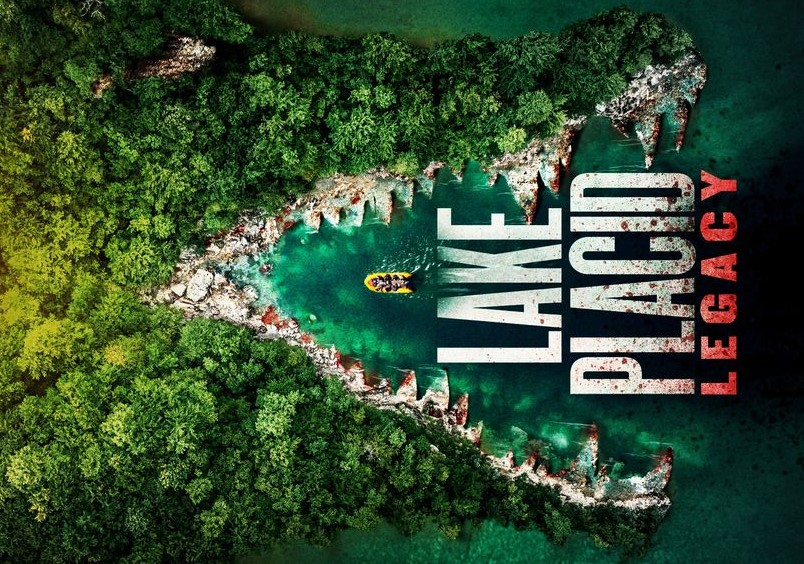
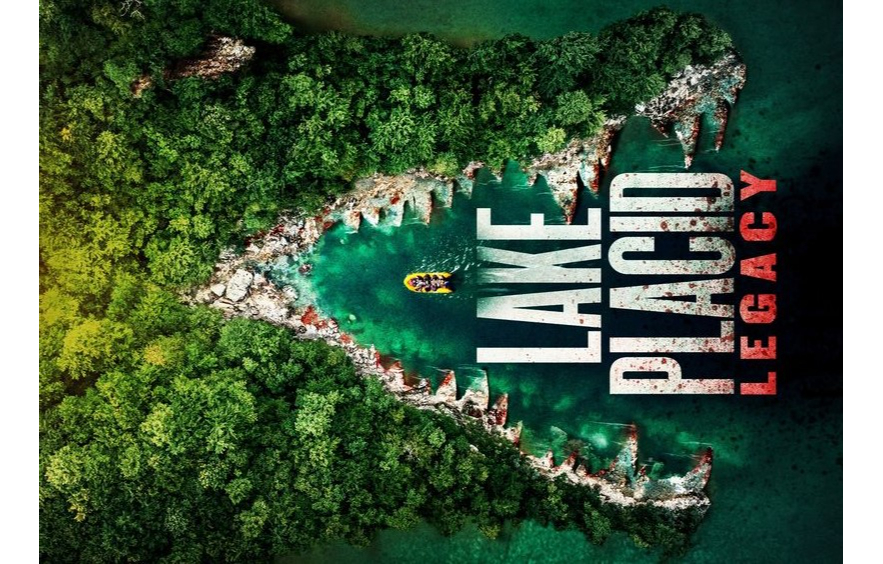
cambios

diff --git a/index.html b/index.html
@@ -9,15 +9,9 @@
     <link rel="icon" href="icono/movie1.png">
     <link href="https://cdn.jsdelivr.net/npm/bootstrap@5.3.3/dist/css/bootstrap.min.css" rel="stylesheet">
     <link rel="preconnect" href="https://fonts.googleapis.com">
-    <link rel="preconnect" href="https://fonts.googleapis.com">
     <link rel="preconnect" href="https://fonts.gstatic.com" crossorigin>
     <link
         href="https://fonts.googleapis.com/css2?family=Abril+Fatface&family=Bodoni+Moda:ital,opsz,wght@0,6..96,400..900;1,6..96,400..900&family=Ibarra+Real+Nova:ital,wght@0,400..700;1,400..700&family=Pacifico&family=Workbench&display=swap"
-        rel="stylesheet">
-    <link rel="preconnect" href="https://fonts.googleapis.com">
-    <link rel="preconnect" href="https://fonts.gstatic.com" crossorigin>
-    <link
-        href="https://fonts.googleapis.com/css2?family=Bodoni+Moda:ital,opsz,wght@0,6..96,400..900;1,6..96,400..900&family=Ibarra+Real+Nova:ital,wght@0,400..700;1,400..700&family=Workbench&display=swap"
         rel="stylesheet">
 </head>
 
@@ -36,13 +30,13 @@
                         <a class="nav-link active" aria-current="page" href="index.html">Inicio</a>
                     </li>
                     <li class="nav-item">
-                        <a class="nav-link active" href="./pages/peliculas.html">Peliculas</a>
+                        <a class="nav-link active" href="pages/peliculas.html">Peliculas</a>
                     </li>
                     <li class="nav-item">
-                        <a class="nav-link active" href="series.html">Series</a>
+                        <a class="nav-link active" href="pages/series.html">Series</a>
                     </li>
                     <li class="nav-item">
-                        <a class="nav-link active" href="./pages/form.html">Contacto</a>
+                        <a class="nav-link active" href="pages/form.html">Contacto</a>
                     </li>
                 </ul>
                 <form class="d-flex" role="search">
@@ -53,17 +47,17 @@
         </div>
     </nav>
 
-    <section>
+    <section class="carousel-section">
         <div id="carouselExample" class="carousel slide" data-bs-ride="carousel" data-bs-interval="3000" data-bs-pause="false">
             <div class="carousel-inner">
                 <div class="carousel-item active">
-                    <img src="./img/LakePlacid.jpg" class="w-99" alt="Lake Placid">
+                    <img src="./img/LakePlacid.jpg" class="w-100" alt="Lake Placid">
                 </div>
                 <div class="carousel-item">
-                    <img src="./img/barbie.jpg" class="w-99" alt="Barbie">
+                    <img src="./img/barbie.jpg" class="w-100" alt="Barbie">
                 </div>
                 <div class="carousel-item">
-                    <img src="./img/insidious.jpg" class="w-99" alt="Insidous">
+                    <img src="./img/insidious.jpg" class="w-100" alt="Insidious">
                 </div>
             </div>
             <button class="carousel-control-prev" type="button" data-bs-target="#carouselExample" data-bs-slide="prev">
@@ -77,24 +71,25 @@
         </div>
     </section>
 
-    <div class="container">
+    <div class="container paragraph-container">
         <div>
-            <h2 class="h2"> Todas las peliculas de PelisCodo Online Gratis </h2>
+            <h2 class="h2">Todas las películas de PelisCodo Online Gratis</h2>
             <p class="parrafo"> <strong>PelisCodo</strong> es la plataforma de streaming gratuito por excelencia. Dentro
                 de sus pantallas, puedes ver un
                 sinfín de <em>películas</em> y/o <em>series</em> interesantes, atrapantes y que seguramente te sacudirán
                 el aburrimiento en
                 pocos minutos.</p>
-            <p class="parrafo"> La página no solo puede ser tu plan ideal para pasar el fin de semana o las noches junto
+        </div>
+        <div>
+            <p class="parrafo no-background">La página no solo puede ser tu plan ideal para pasar el fin de semana o las noches junto
                 a tus amigos,
                 familiares o pareja. Sin que también es tu aliado ideal para esos momentos en los que te encuentres solo
-                y
-                no sepas que más hacer en tus tiempos libres.</p>
+                y no sepas qué más hacer en tus tiempos libres.</p>
         </div>
     </div>
 
     <footer>
-        <p>&copy; 2024 TuCompañia. Todos los derechos reservados.</p>
+        <p>&copy; 2024 TuCompañía. Todos los derechos reservados.</p>
     </footer>
 
     <script src="./js/main.js"></script>

diff --git a/css/index.css b/css/index.css
@@ -49,45 +49,25 @@ nav ul li a:hover {
     background-color: #555;
 }
 
+.carousel-section {
+    background-color: #ffffff; /* Color de fondo del contenedor del carrusel */
+    padding: 20px 0; /* Espacio alrededor del carrusel */
+    background-image: url('/img/carrusel_fondo.jpg'); /* Ruta de la imagen de fondo */
+    background-size: cover; /* La imagen cubrirá todo el contenedor */
+    background-position: center; /* Centrar la imagen de fondo */
+    background-repeat: no-repeat; /* Evitar que la imagen se repita */
+}
+
 .carousel {
-    display: grid;
-    text-align: center;
-    padding: 20px 0;
-}
-
-.carousel h2, .carousel p {
-    margin-bottom: 20px;
-}
-
-.card {
-    height: 30rem;
-    width: 30rem;
-}
-
-.card img {
-    width: 100%; /* Utilizar todo el ancho de la tarjeta */
-    height: auto; /* Altura automática para mantener la proporción */
-    max-height: 200px; /* Altura máxima de la imagen */
-}
-
-footer {
-    background-color: #333;
-    color: #fff;
-    text-align: center;
-    padding: 10px 0;
-    position: fixed; /* O position: absolute; */
-    bottom: 0;
-    width: 100%;
-}
-
-/* Ajuste para que las imágenes del carrusel ocupen toda la altura */
-.carousel {
-    height: 100vh;
+    max-width: 50%; /* Ancho máximo del carrusel */
+    margin: 0 auto; /* Centrar el carrusel */
+    border-radius: 10px; /* Esquinas redondeadas */
+    box-shadow: 0 4px 8px rgba(0, 0, 0, 0.1); /* Sombra */
 }
 
 .carousel-item img {
-    height: auto; /* Ajuste automático de la altura */
     width: 100%; /* Ocupa todo el ancho del contenedor */
+    height: auto; /* Ajuste automático de la altura */
     object-fit: contain; /* Ajustar la imagen sin cortarla */
 }
 
@@ -96,38 +76,35 @@ footer {
     font-weight: 400;
     font-style: normal;
     text-align: center;
+    margin: 20px 0;
 }
 
 .parrafo {
     font-family: "Bodoni Moda", serif;
     font-optical-sizing: auto;
     text-align: center;
+    margin: 10px 0; /* Espacio entre párrafos */
 }
 
-/* Media queries para ajustar estilos en dispositivos móviles */
-@media (max-width: 768px) {
-    .carousel {
-        height: auto; /* Ajustar la altura para pantallas pequeñas */
-    }
-
-    .carousel-item img {
-        height: auto; /* Ajuste automático de la altura */
-        width: 100%; /* Ocupa todo el ancho del contenedor */
-    }
-
-    .card {
-        height: auto; /* Ajuste automático de la altura */
-        width: 100%; /* Ocupa todo el ancho del contenedor */
-        margin-bottom: 20px; /* Espacio entre las tarjetas */
-    }
-
-    nav ul li {
-        display: block; /* Muestra los elementos de la navegación en bloque */
-        margin-bottom: 10px; /* Espacio entre los elementos de la navegación */
-    }
-
-    footer {
-        position: relative; /* Para que el pie de página esté al final del contenido */
-    }
+/* Estilos para el contenedor del párrafo */
+.paragraph-container {
+    background-color: #f0f0f0; /* Cambia este valor al color de fondo que prefieras */
+    padding: 20px;
+    border-radius: 10px; /* Añade esquinas redondeadas si lo deseas */
+    margin: 20px auto; /* Centra el contenedor */
 }
 
+/* Estilo adicional para el último párrafo */
+.no-background {
+    background-color: transparent; /* Fondo transparente */
+}
+
+footer {
+    background-color: #333;
+    color: #fff;
+    text-align: center;
+    padding: 10px 0;
+    position: relative; /* Para que el pie de página esté al final del contenido */
+    width: 100%;
+    margin-top: 20px; /* Espacio entre el contenido y el pie de página */
+}
